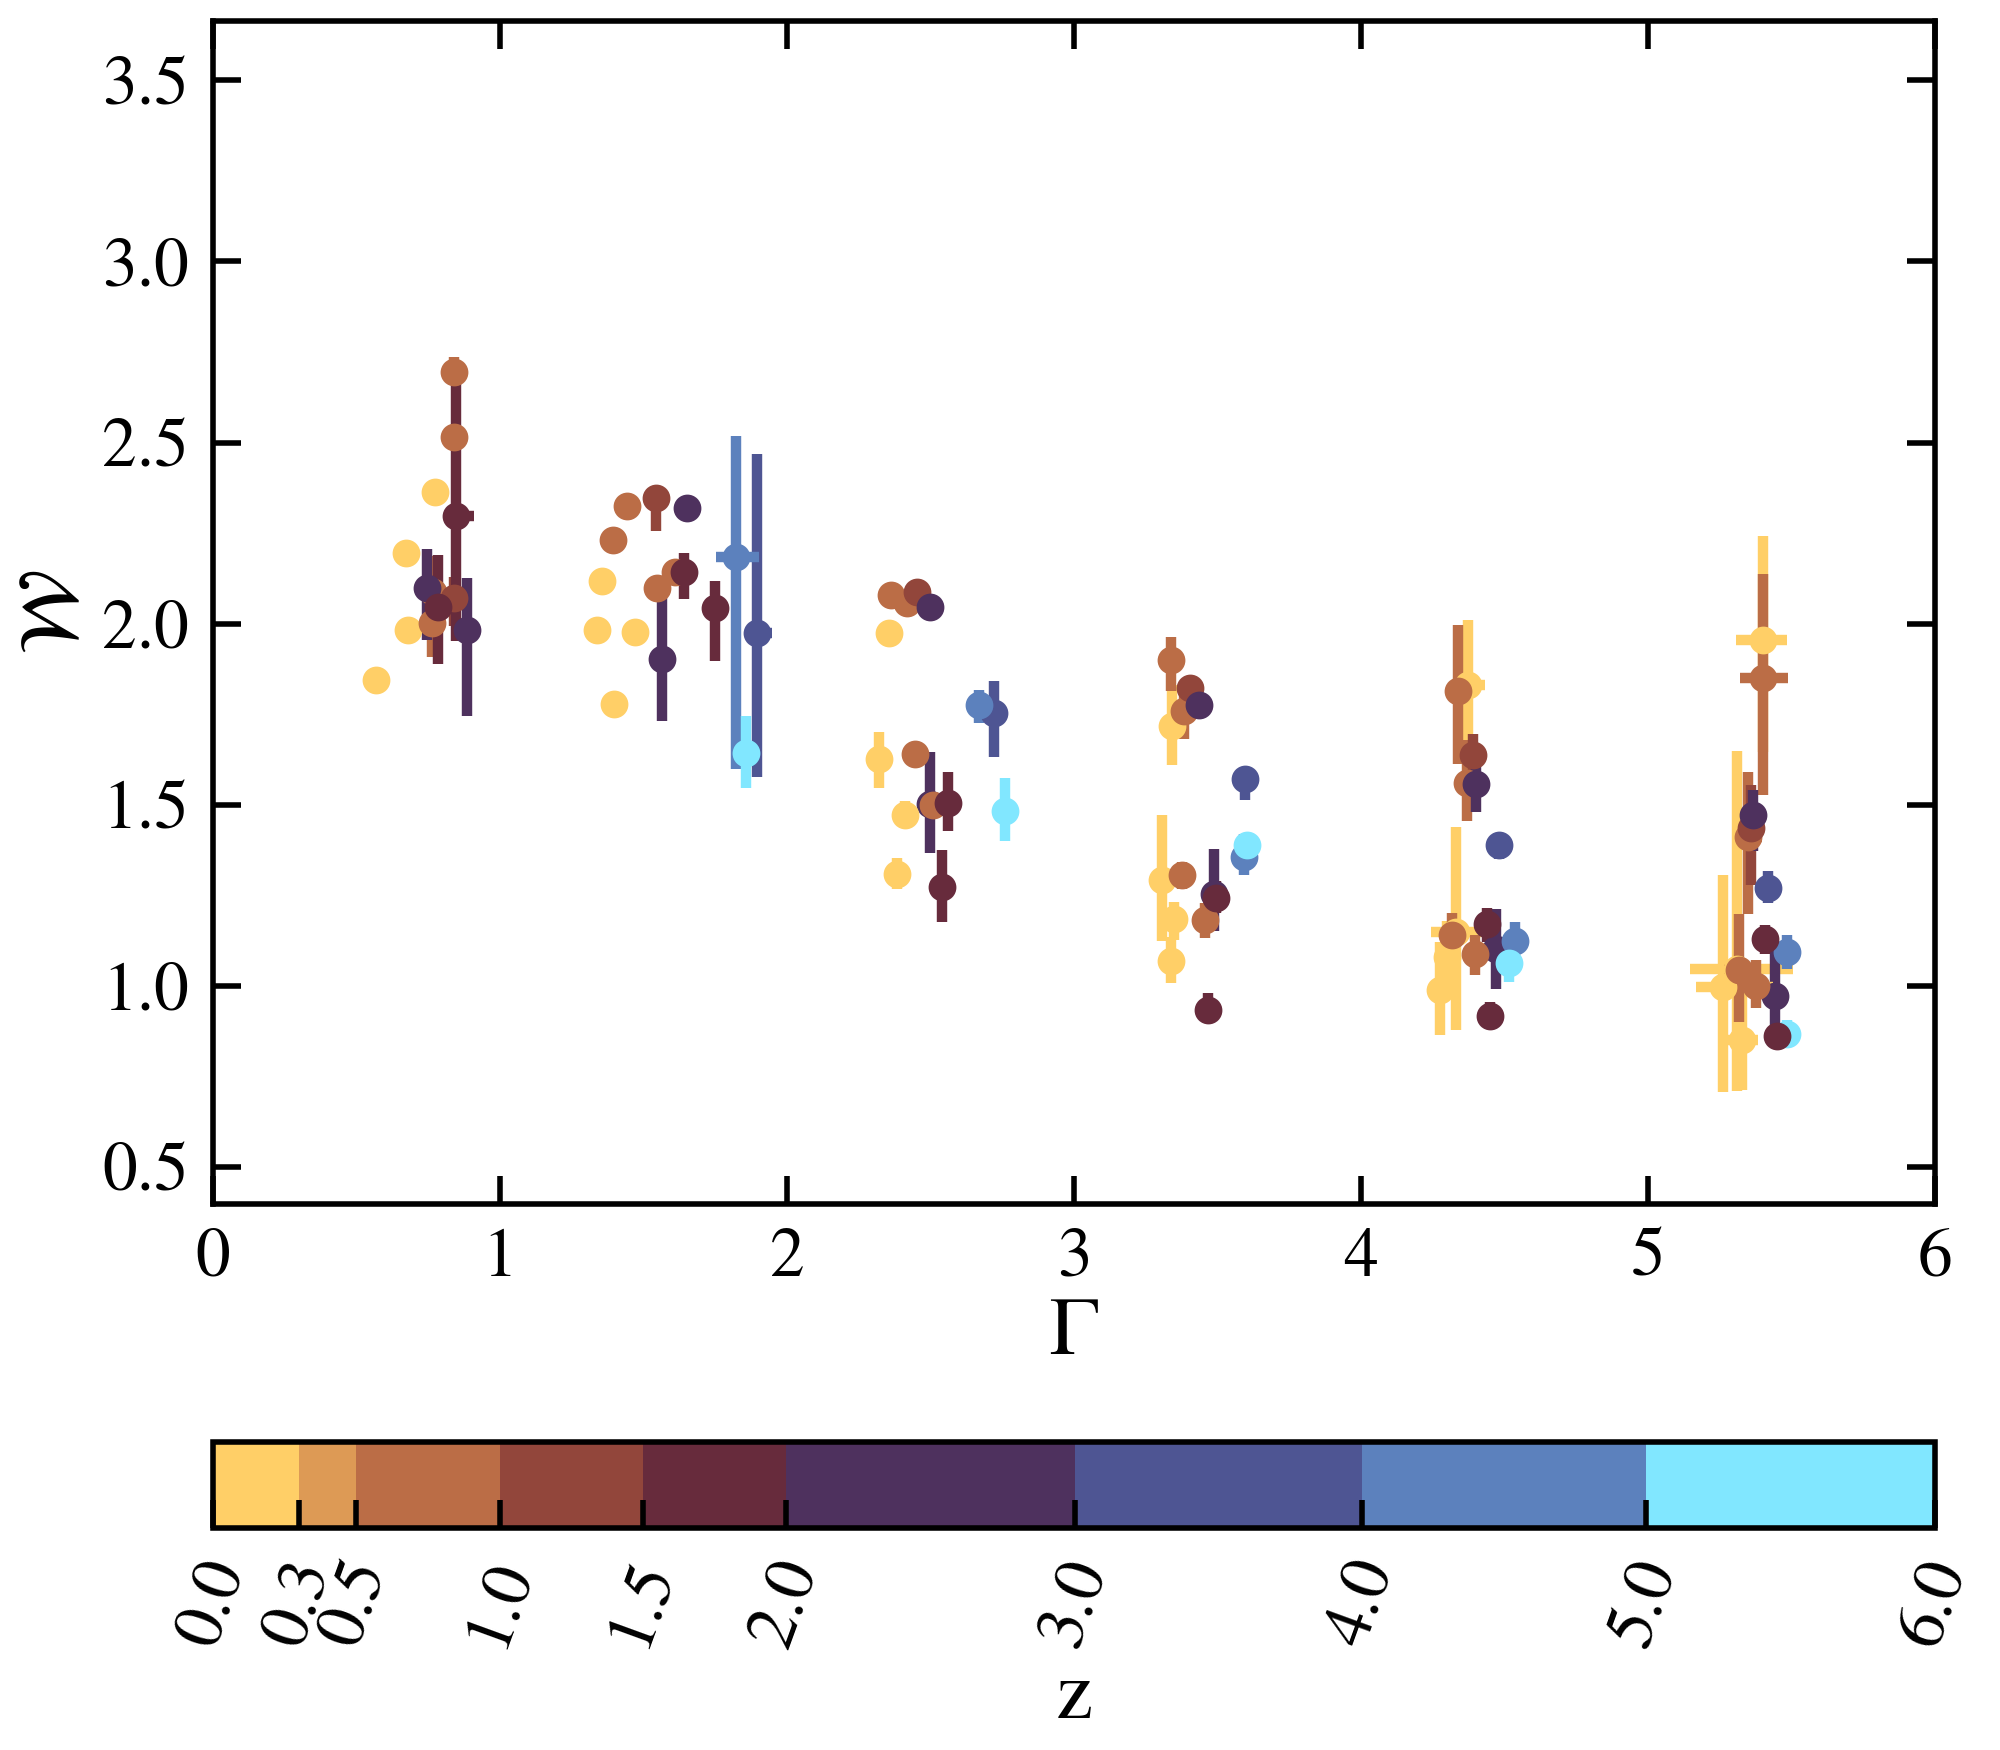
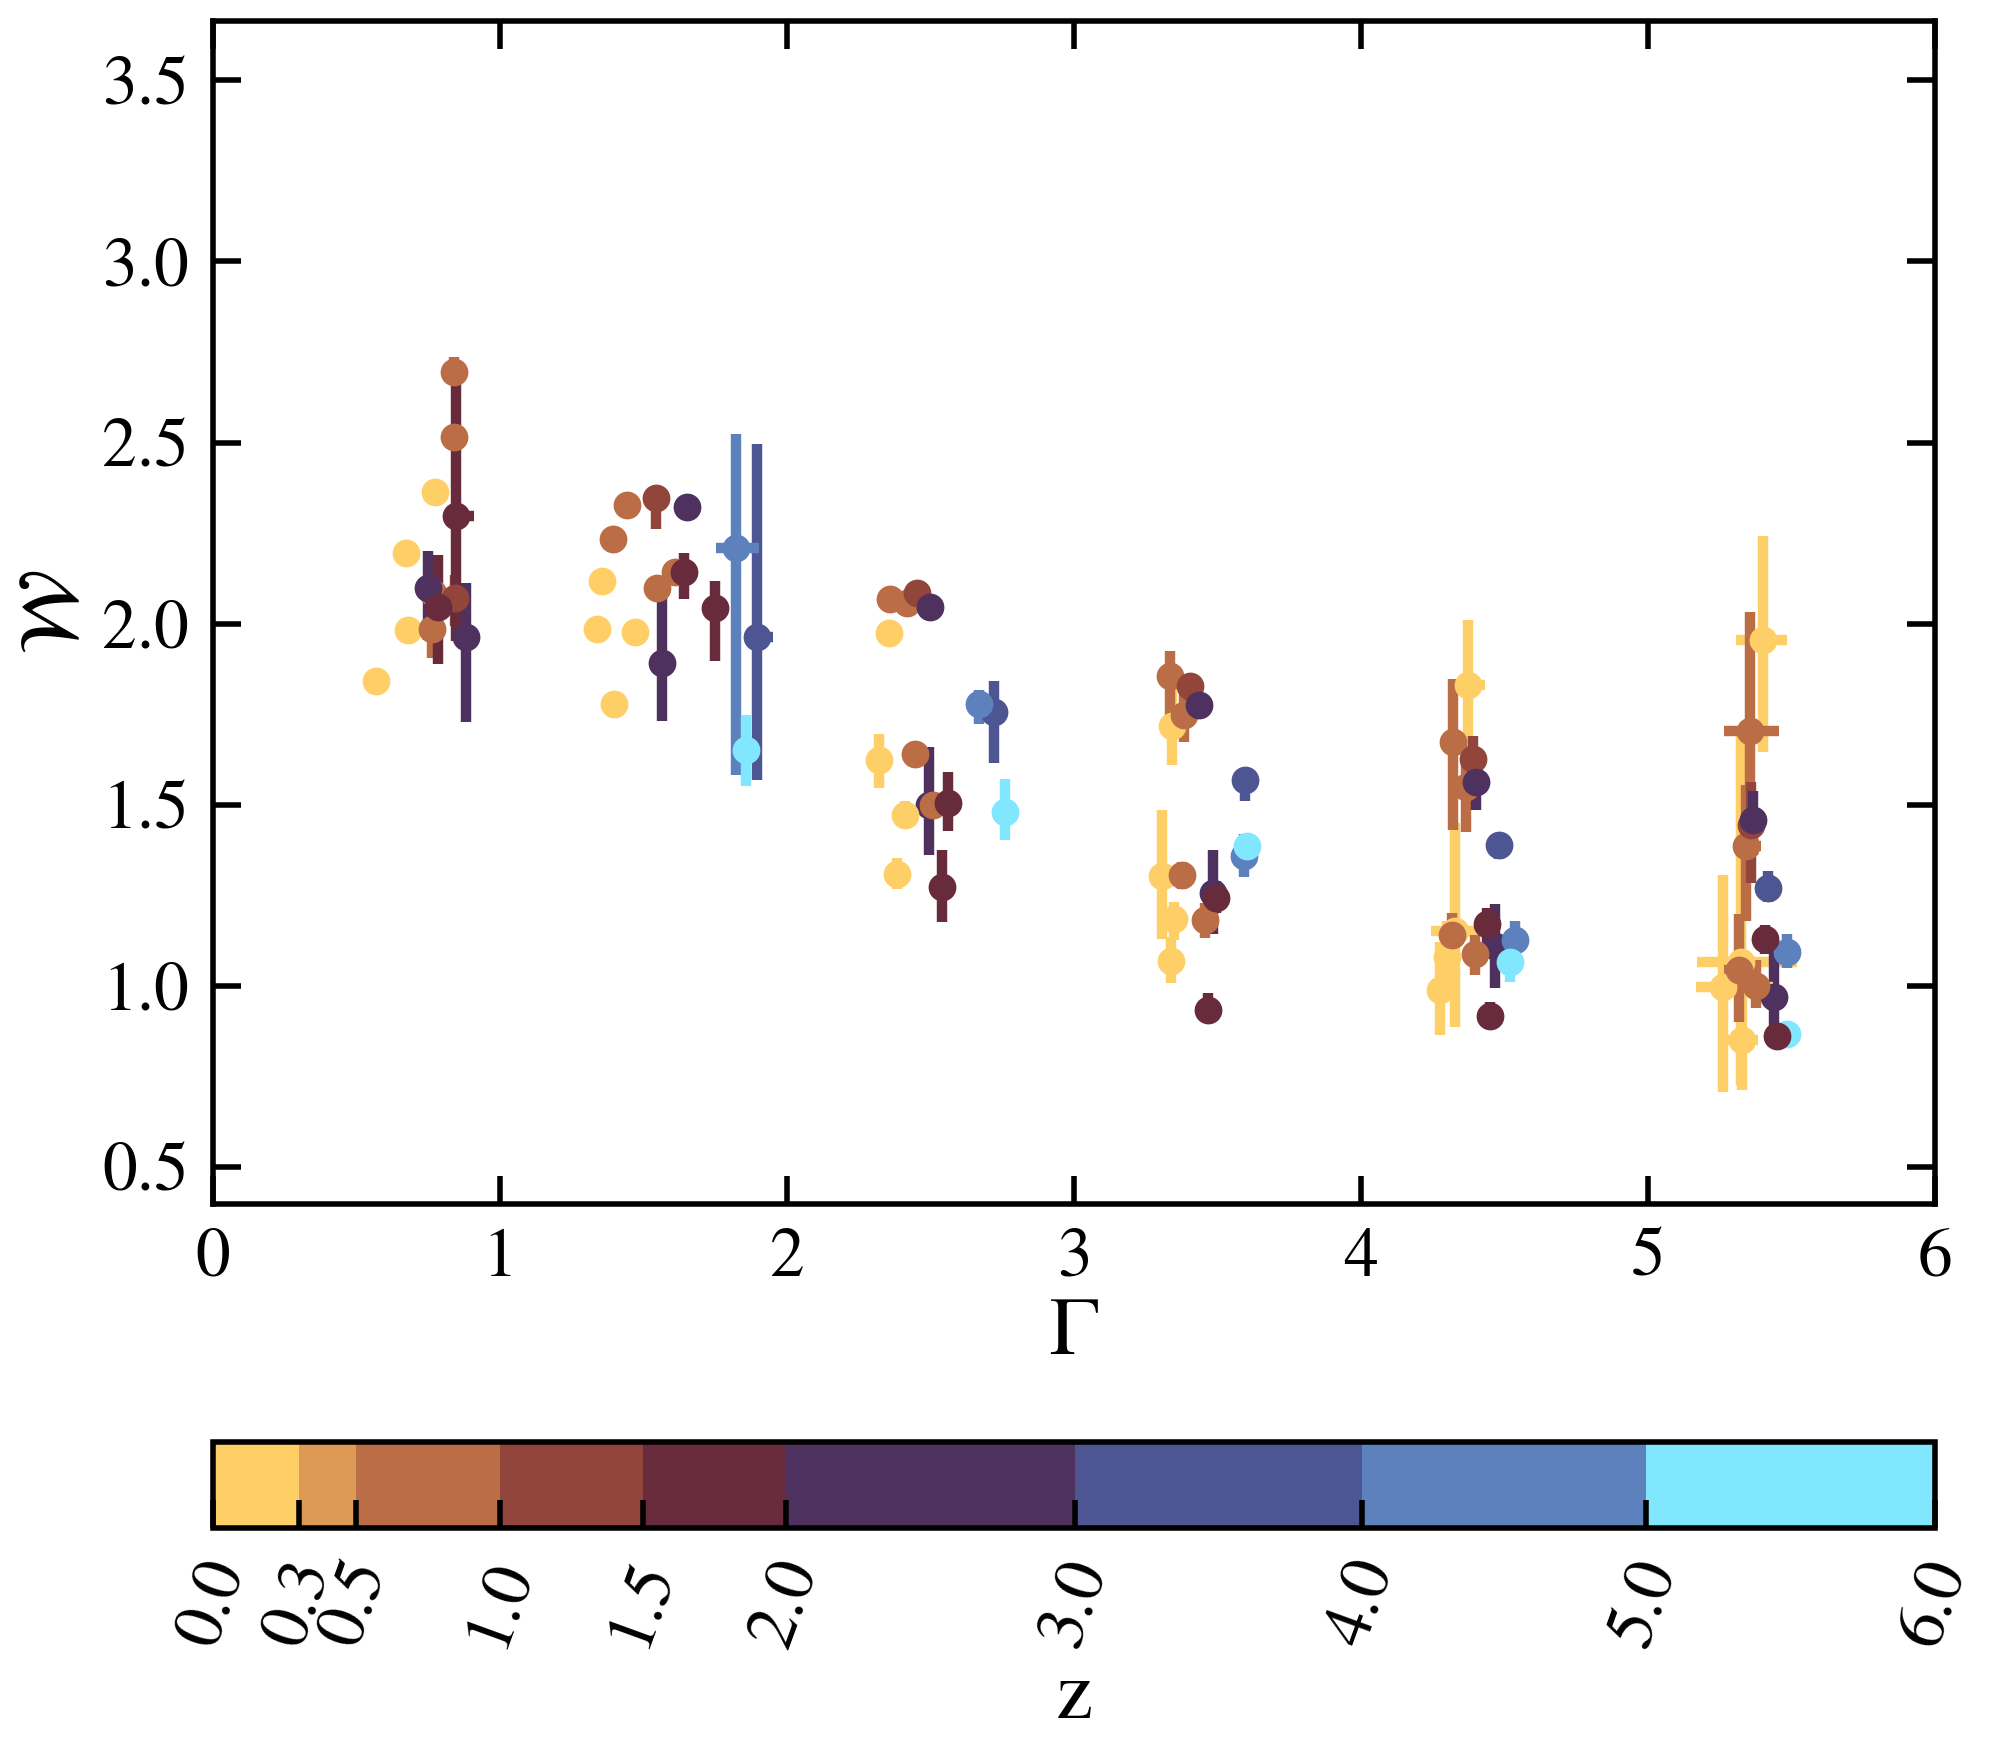
new

diff --git a/code/DMhalo_TNG300/4_add_accretions.py b/code/DMhalo_TNG300/4_add_accretions.py
@@ -41,7 +41,7 @@ else:
 
 # ------------------------------------------------------------------------------------------------
 # Load the accretion rate data
-df_accret = pd.read_csv(table_dir+'halo_snap_idx_table.csv', index_col=0)
+df_accret = pd.read_csv(table_dir+'accretion_table_new.csv', index_col=0)
 if np.all(df_accret.columns == df_idx.columns) == False:
     exit()
 else:
